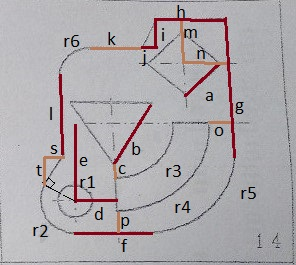
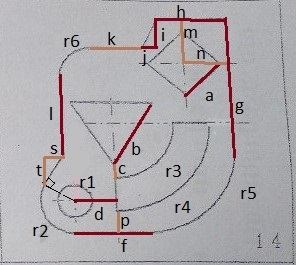
figure formed

Changed region(s): [[0.2432, 0.4528, 0.3041, 0.7547], [0.6993, 0.4528, 0.7905, 0.5132]]

diff --git a/src/canvases/FigureCanvas.kt b/src/canvases/FigureCanvas.kt
@@ -30,20 +30,28 @@ class FigureCanvas(var windoW_WIDTH: Int, var windoW_HEIGHT: Int, var mainCompon
     var rotateDegree = 0
     var rotatePoint: Point? = null
 
-    //var k = 20
-    var R1 = 80
+    var R1 = 20
     var R2 = 40
-    var R3 = 40
-    var A = 80
-    var B = 20
-    var C = 40
-    var D = 60
-    var E = 40
-    var F = 60
-    var G = 120
-    var H = 40
-    var I = 30
-    var ALPHA = toDegrees(atan(3.0)).toInt()
+    var R3 = 70
+    var R4 = 90
+    var R5 = 80
+    var R6 = 30
+    var A = 40
+    var B = 100
+    var C = 20
+    var D = 70
+    var F = 100
+    var G = 170
+    var H = 90
+    var I = 20
+    var J = 10
+    var K = 60
+    var L = 70
+    var M = 40
+    var N = 40
+    var P = 30
+    var S = 20
+    var T = 40
 
     init {
         preferredSize = Dimension(windoW_WIDTH, windoW_HEIGHT)
@@ -76,7 +84,7 @@ class FigureCanvas(var windoW_WIDTH: Int, var windoW_HEIGHT: Int, var mainCompon
 
     /*fun updateDimension(){
         R1 = k * 4
-        R2 = k * 2
+        R6 = k * 2
         R3 = k * 2
         A = k * 4
         B = k
@@ -102,10 +110,10 @@ class FigureCanvas(var windoW_WIDTH: Int, var windoW_HEIGHT: Int, var mainCompon
         if (rotate) {
             when (rotateType) {
                 RotateType.AXIS -> {
-                    figures!!.rotateXAxis(rotateDegree)
+                    figures.rotateXAxis(rotateDegree)
                 }
                 RotateType.POINT -> {
-                    figures!!.rotatePoint(rotateDegree, rotatePoint!!)
+                    figures.rotatePoint(rotateDegree, rotatePoint!!)
                 }
             }
         }
@@ -114,13 +122,13 @@ class FigureCanvas(var windoW_WIDTH: Int, var windoW_HEIGHT: Int, var mainCompon
             val g2d = g as Graphics2D
             g2d.color = Color.RED
             g2d.stroke = BasicStroke(10f)
-            for (point in figures!!.points) {
+            for (point in figures.points) {
                 g2d.drawOval(point.x, point.y, 1, 1)
             }
         }
 
-        figures!!.shift(shiftX, shiftY)
-        figures!!.draw(g)
+        figures.shift(shiftX, shiftY)
+        figures.draw(g)
 
     }
 
@@ -128,81 +136,81 @@ class FigureCanvas(var windoW_WIDTH: Int, var windoW_HEIGHT: Int, var mainCompon
 
         figures = FigureDecorator(this)
 
-        val axis = Line(Point(mainComponent.width / 2, mainComponent.height / 2 - 300), Point(mainComponent.width / 2, mainComponent.height / 2 + 300))
-
-        val drawing = formLeftPartOfDrawing()
-        var mirror = LinkedList<Figure>()
-
-        for(figure in drawing){
-            mirror.add(figure.mirror(axis))
-        }
-
-        figures.add(drawing)
-        figures.add(mirror)
-    }
-
-    private fun formLeftPartOfDrawing(): LinkedList<Figure>{
-
-        var drawing = LinkedList<Figure>()
-
         //CENTER_POINT
         val centerPoint = Point(mainComponent.width / 2, mainComponent.height / 2)
-        drawing.add(centerPoint)
+        figures.add(centerPoint)
 
-        //CENTER_CIRCLE
-        val centerCircle = Arc(R2, centerPoint, 180, 360)
-        drawing.add(centerCircle)
+        //TRIANGLE
+        val line1 = Line(Point(centerPoint.x, centerPoint.y - C + R3), Point(centerPoint.x + B/2, centerPoint.y - C + R3 - sqrt(B * B * 0.75).toInt()))
+        val line2 = Line(line1.endPoint, Point(line1.endPoint.x - B, line1.endPoint.y))
+        val line3 = Line(line2.endPoint, line1.startPoint)
+        figures.add(line1)
+        figures.add(line2)
+        figures.add(line3)
 
-        //BOTTOM_ARC
-        val bottomArc = Arc(R1, centerPoint, -90, 0)
-        drawing.add(bottomArc)
+        //RIGHT_ARCS
+        val arc1 = Arc(R3, centerPoint, 0, 90)
+        val arc2 = Arc(R4, centerPoint, 0, 90)
+        arc1.definePoints()
+        arc2.definePoints()
+        val line4 = Line(arc1.points.first, arc2.points.first)
+        val line5 = Line(arc1.points.last, arc2.points.last)
+        figures.add(arc1)
+        figures.add(arc2)
+        figures.add(line4)
+        figures.add(line5)
 
-        //LINE_1
-        val line1 = Line(Point(centerPoint.x - R1, centerPoint.y), Point(centerPoint.x - R1 - A, centerPoint.y))
-        drawing.add(line1)
+        val line6 = Line(Point(centerPoint.x - D, centerPoint.y + R4 + P), Point(centerPoint.x - D + F, centerPoint.y + R4 + P))
+        figures.add(line6)
 
-        //LINE_2
-        val line2 = Line(line1.endPoint, Point(line1.endPoint.x, line1.endPoint.y + B - G - F - E))
-        drawing.add(line2)
+        val arc3 = Arc(R5, Point(line6.endPoint.x, line6.endPoint.y - R5), 0, 90)
+        figures.add(arc3)
 
-        //LINE_3
-        val line3 = Line(line2.endPoint, Point(line2.endPoint.x + C, line2.endPoint.y - B))
-        drawing.add(line3)
+        arc3.definePoints()
+        val line7 = Line(arc3.points.last, Point(arc3.points.last.x, arc3.points.last.y - G))
+        figures.add(line7)
 
-        //LINE_4
-        val line4 = Line(line3.endPoint, Point(line3.endPoint.x + D, line3.endPoint.y))
-        drawing.add(line4)
+        val line13 = Line(Point(line7.endPoint.x - N, (line7.endPoint.y + M - A / sqrt(2.0)).toInt()), Point((line7.endPoint.x - N + A / sqrt(2.0)).toInt(), line7.endPoint.y + M))
+        val line14 = Line(line13.endPoint, Point(line13.startPoint.x, (line13.endPoint.y + A / sqrt(2.0)).toInt()))
+        val line15 = Line(line14.endPoint, Point((line14.endPoint.x - A / sqrt(2.0)).toInt(), line13.endPoint.y))
+        val line16 = Line(line15.endPoint, line13.startPoint)
+        figures.add(line13)
+        figures.add(line14)
+        figures.add(line15)
+        figures.add(line16)
 
-        //LINE_5
-        val line5 = Line(line4.endPoint, Point(line4.endPoint.x, line4.endPoint.y + E))
-        drawing.add(line5)
+        val line8 = Line(line7.endPoint, Point(line7.endPoint.x - H, line7.endPoint.y))
+        figures.add(line8)
 
-        //LINE_6
-        val line6 = Line(line5.endPoint, Point(line5.endPoint.x - H, line5.endPoint.y))
-        drawing.add(line6)
+        val line9 = Line(line8.endPoint, Point(line8.endPoint.x - J, line8.endPoint.y + I))
+        figures.add(line9)
 
-        //LINE_7
-        val line7 = Line(line6.endPoint, Point(line6.endPoint.x, line6.endPoint.y + F))
-        drawing.add(line7)
+        val line10 = Line(line9.endPoint, Point(line9.endPoint.x - K, line9.endPoint.y))
+        figures.add(line10)
 
-        val y = R3 * cos(toRadians(ALPHA.toDouble())) + I
-        //println("R3 = $R3\ncos(ALPHA) = ${cos(ALPHA)}\nI = $I\ny = $y")
-        val x = y / tan(toRadians(ALPHA.toDouble()))
-        val z = R3 * sin(toRadians(ALPHA.toDouble()))
+        val arc4 = Arc(R6, Point(line10.endPoint.x, line10.endPoint.y + R6), 180, 270)
+        figures.add(arc4)
 
-        //LINE_8
-        val line8 = Line(line7.endPoint, Point((centerPoint.x - z - x).toInt(), line7.endPoint.y))
-        drawing.add(line8)
+        arc4.definePoints()
+        val line11 = Line(arc4.points.last, Point(arc4.points.last.x, arc4.points.last.y + L))
+        figures.add(line11)
 
-        //LINE_9
-        val line9 = Line(line8.endPoint, Point((line8.endPoint.x + x).toInt(), (line8.endPoint.y - y).toInt()))
-        drawing.add(line9)
+        val l = sqrt(((line11.endPoint.x - line6.startPoint.x)*(line11.endPoint.x - line6.startPoint.x) + (line11.endPoint.y - line6.startPoint.y + R2) * (line11.endPoint.y - line6.startPoint.y + R2)).toDouble())
+        val alpha1 = asin((R6 + K + J + H - R5 - F)/l)
+        val alpha2 = acos(R2 / l)
 
-        //TOP_ARC
-        val topArc = Arc(R3, Point(centerPoint.x, centerPoint.y - G - I), 180, 180 + ALPHA)
-        drawing.add(topArc)
+        val arc5 = Arc(R2
+                , Point(line6.startPoint.x, line6.startPoint.y - R2)
+                , (180 + toDegrees(alpha1 + alpha2)).toInt()
+                , 360)
+        figures.add(arc5)
 
-        return drawing
+        arc5.definePoints()
+        val line12 = Line(line11.endPoint, arc5.points.first)
+        figures.add(line12)
+
+        val circle = Circle(R1, Point(line6.startPoint.x, line6.startPoint.y - R2))
+        figures.add(circle)
     }
 
     private fun drawAxis(g: Graphics) {

diff --git a/src/canvases/ToolbarCanvas.kt b/src/canvases/ToolbarCanvas.kt
@@ -38,7 +38,7 @@ class ToolbarCanvas(width: Int, height: Int, private val mainComponent: Containe
             var frame = JFrame("Параметри")
             SwingUtilities.invokeLater {
                 frame.contentPane = ImagePanel()
-                frame.setBounds(0, 0, 610, 580)
+                frame.setBounds(0, 0, 300, 300)
                 frame.isVisible = true
             }
         }
@@ -54,11 +54,11 @@ class ToolbarCanvas(width: Int, height: Int, private val mainComponent: Containe
         add(l1)
         add(r1)
 
-        //R2
-        val l2 = JLabel("R2")
+        //R6
+        val l2 = JLabel("R6")
         l2.labelFor = r2
         r2.addChangeListener {
-            figureCanvas.R2 = r2.value as Int
+            figureCanvas.R6 = r2.value as Int
             mainComponent.repaint()
         }
         add(l2)
@@ -118,7 +118,7 @@ class ToolbarCanvas(width: Int, height: Int, private val mainComponent: Containe
         val l8 = JLabel("E")
         l8.labelFor = e
         e.addChangeListener {
-            figureCanvas.E = e.value as Int
+            //figureCanvas.E = e.value as Int
             mainComponent.repaint()
         }
         add(l8)
@@ -178,7 +178,7 @@ class ToolbarCanvas(width: Int, height: Int, private val mainComponent: Containe
         val l13 = JLabel("α")
         l13.labelFor = alpha
         alpha.addChangeListener {
-            figureCanvas.ALPHA = (alpha.value as Double).toInt()
+            //figureCanvas.ALPHA = (alpha.value as Double).toInt()
             mainComponent.repaint()
         }
         add(l13)
@@ -202,7 +202,7 @@ class ToolbarCanvas(width: Int, height: Int, private val mainComponent: Containe
 
         //Inner radius
         innerRadius = TextField(5)
-        val innerRadiusText = Label("R2")
+        val innerRadiusText = Label("R6")
         this.add(innerRadiusText)
         this.add(innerRadius)
 
